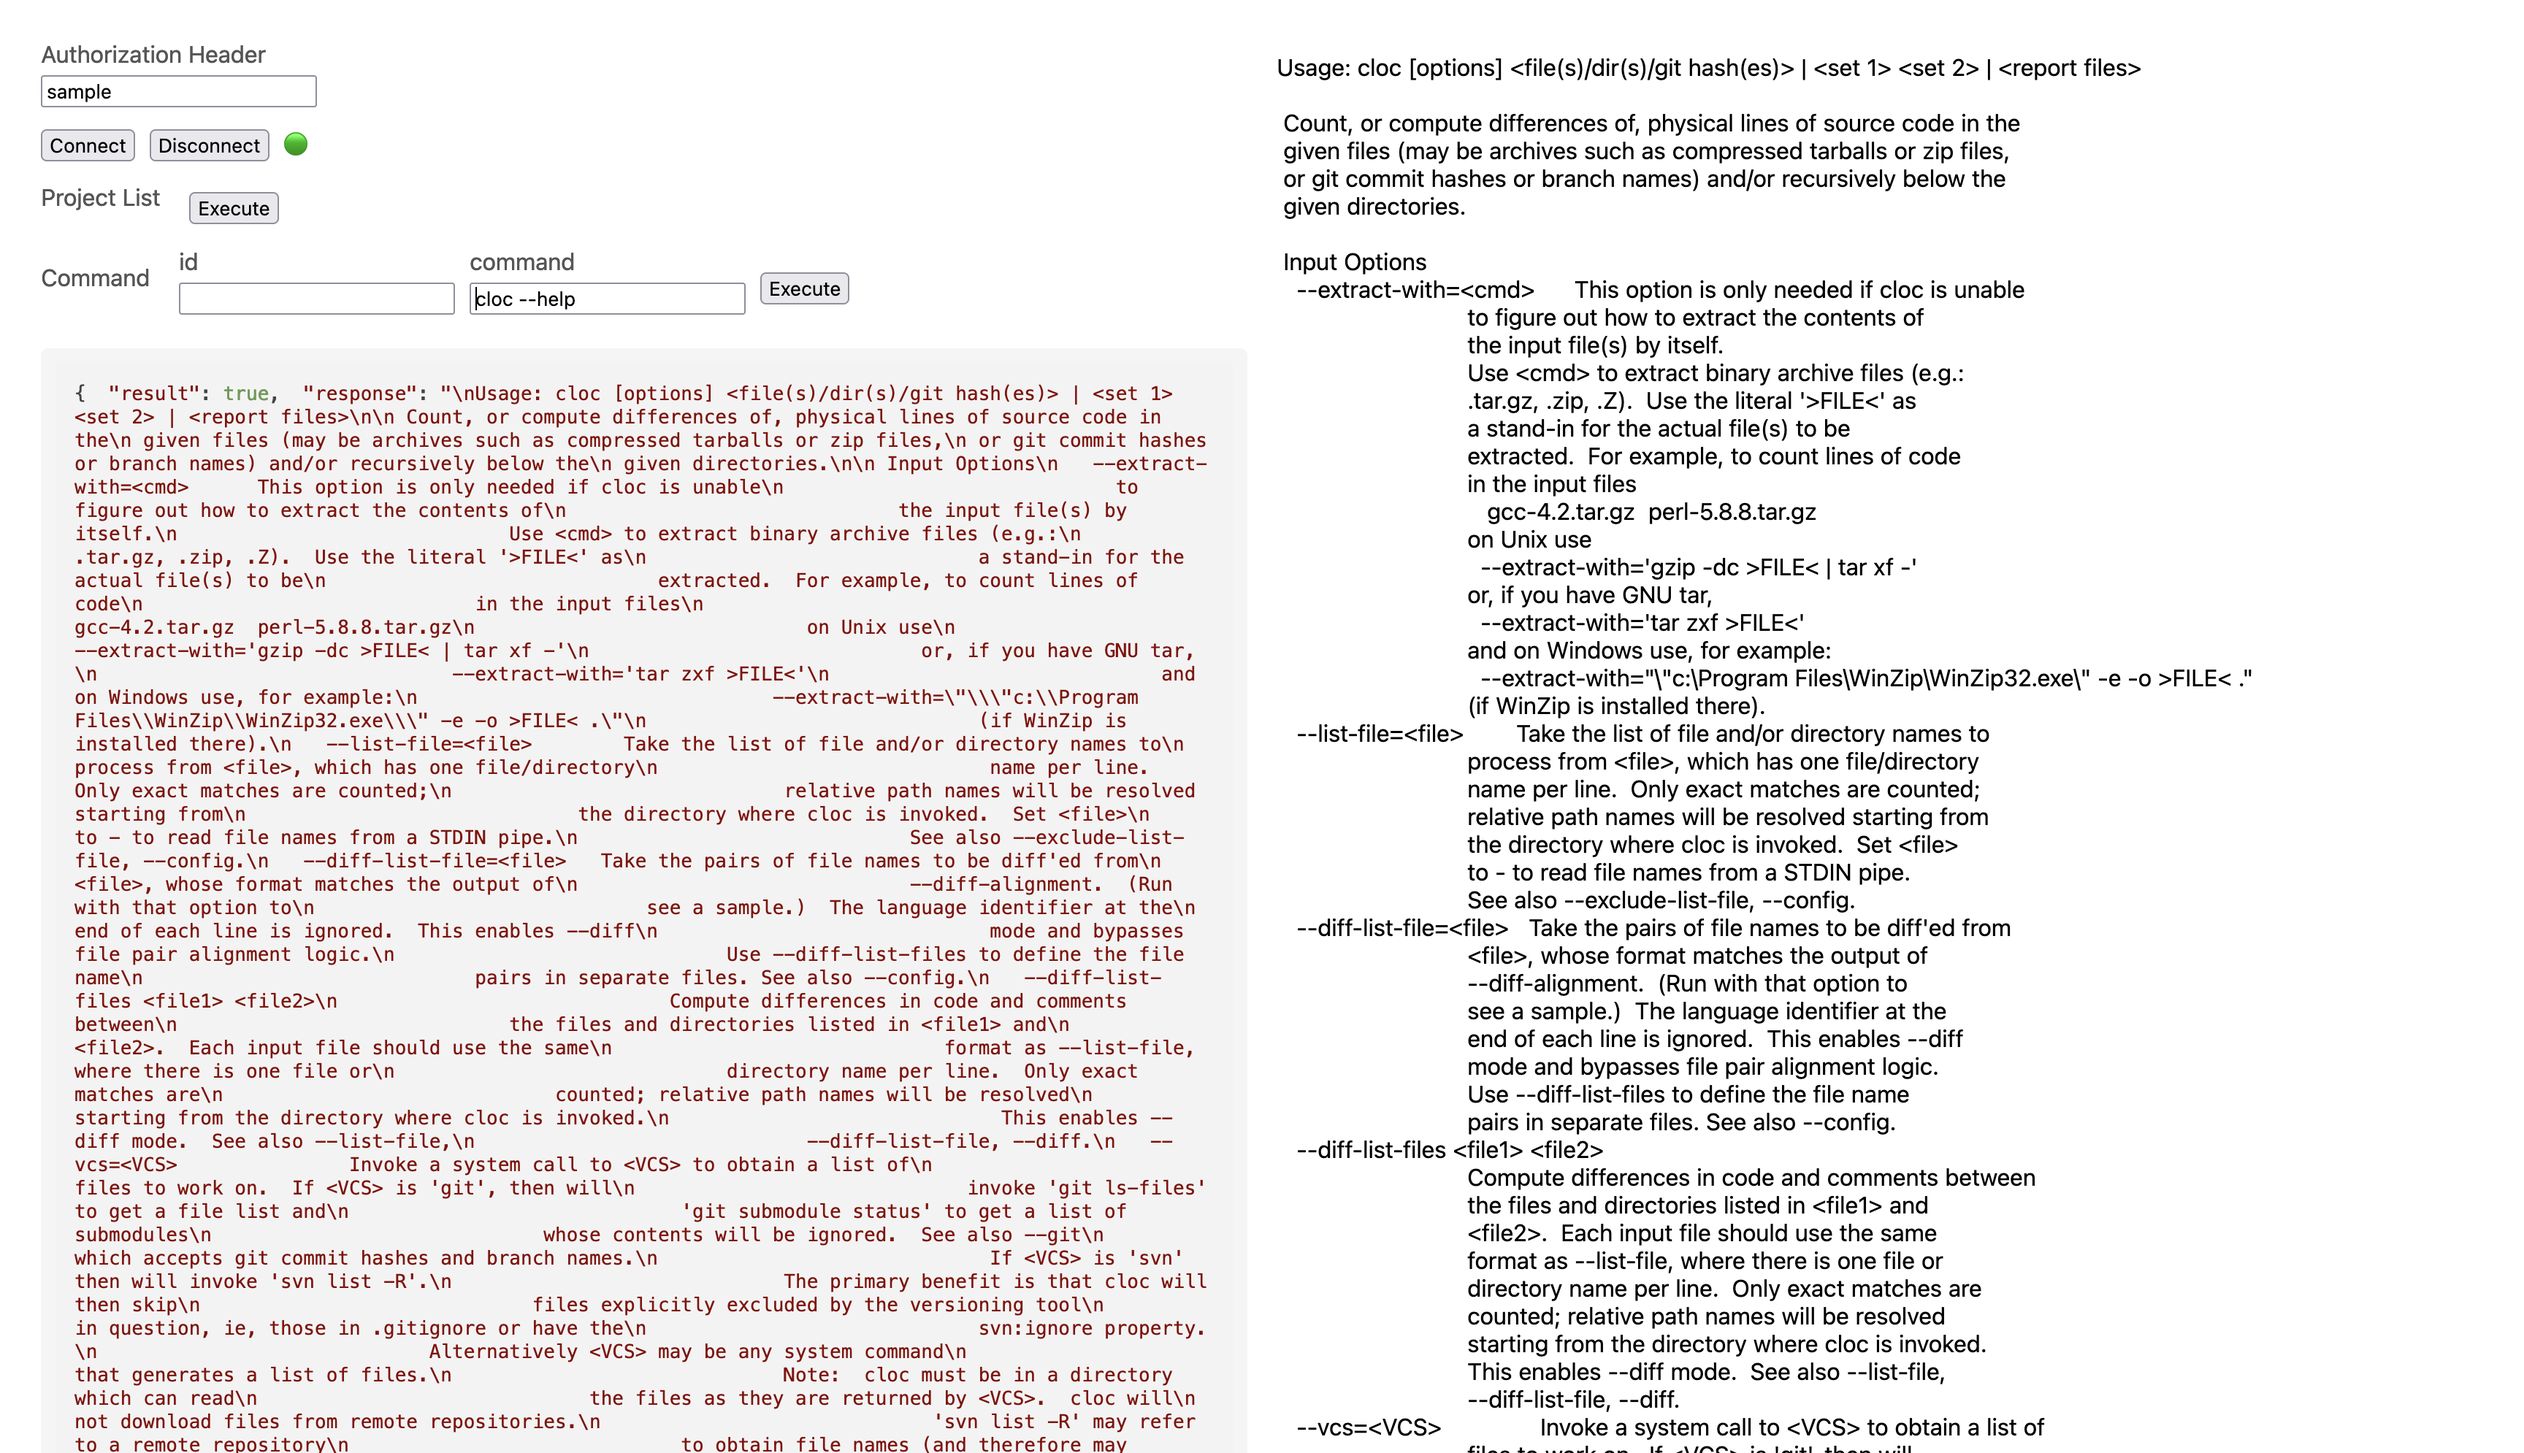
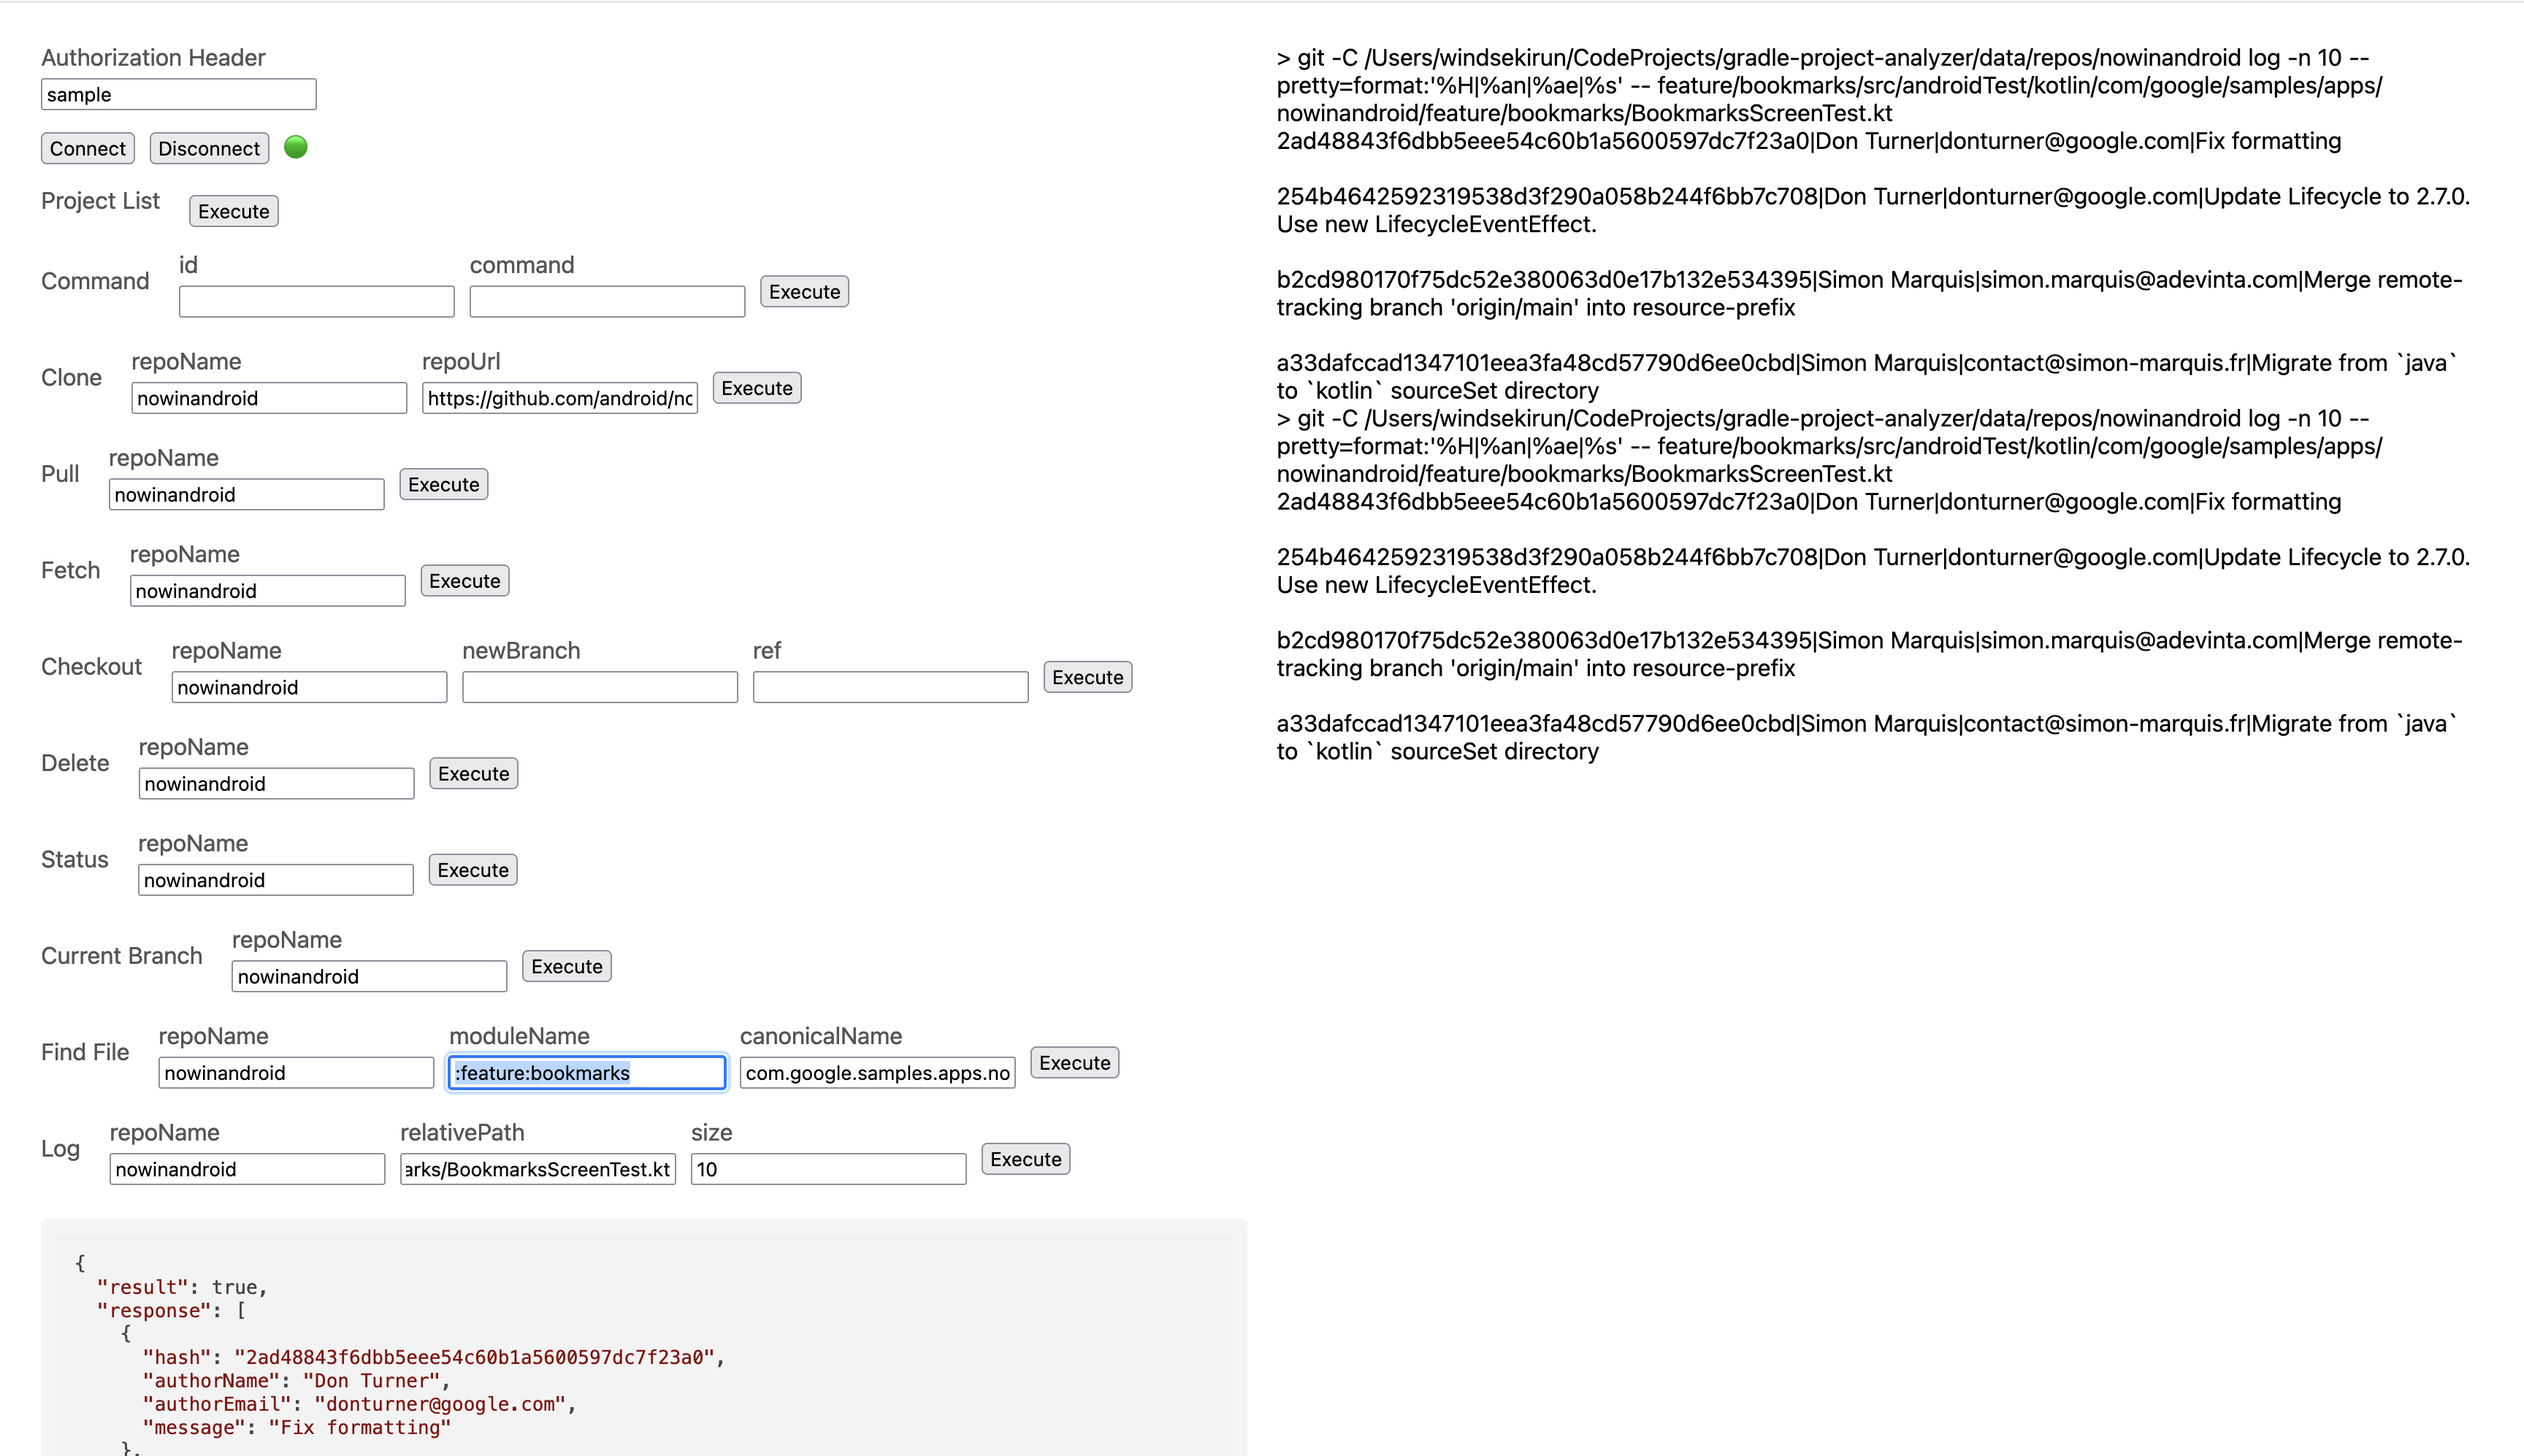
implement find relative path from canonicalName

diff --git a/demo/demo.html b/demo/demo.html
@@ -6,10 +6,18 @@
     <title>gradle-project-analyzer demo page</title>
     <script src="https://unpkg.com/vue@3/dist/vue.global.js"></script>
     <script src="https://cdn.jsdelivr.net/npm/axios/dist/axios.min.js"></script>
-    <script src="https://cdn.socket.io/4.0.1/socket.io.min.js"></script>
-    <link rel="stylesheet" href="https://cdnjs.cloudflare.com/ajax/libs/highlight.js/11.5.0/styles/default.min.css" />
-    <script src="https://cdnjs.cloudflare.com/ajax/libs/highlight.js/11.5.0/highlight.min.js"></script>
+    <script src="https://cdn.socket.io/4.7.5/socket.io.min.js"></script>
+    <link rel="stylesheet" href="https://cdnjs.cloudflare.com/ajax/libs/highlight.js/11.9.0/styles/default.min.css" />
+    <script src="https://cdnjs.cloudflare.com/ajax/libs/highlight.js/11.9.0/highlight.min.js"></script>
     <link rel="stylesheet" href="demo.css" />
+    <script type="module">
+      import * as prettier from 'https://unpkg.com/prettier@3.3.2/standalone.mjs';
+      import prettierPluginBabel from 'https://unpkg.com/prettier@3.3.2/plugins/babel.mjs';
+      import prettierPluginEstree from 'https://unpkg.com/prettier@3.3.2/plugins/estree.mjs';
+
+      window.prettier = prettier;
+      window.prettierPlugins = [prettierPluginBabel, prettierPluginEstree];
+    </script>
   </head>
   <body>
     <div id="app" class="container">
@@ -36,7 +44,7 @@
           <button @click="executeFunction(functionData)">Execute</button>
         </div>
         <div class="row">
-          <pre><code ref="output" class="hljs">{{ output.value }}</code></pre>
+          <pre><code class="hljs" v-html="highlightedOutput"></code></pre>
         </div>
       </div>
       <div class="right"></div>
@@ -125,7 +133,7 @@
               paramValues: {
                 repoName: defaultRepoName,
                 newBranch: '',
-                ref: ''
+                ref: '',
               },
             },
             {
@@ -153,6 +161,29 @@
               params: ['repoName'],
               paramValues: {
                 repoName: defaultRepoName,
+              },
+            },
+            {
+              name: 'Find File',
+              apiPath: '/api/analyze/find/file',
+              method: 'POST',
+              params: ['repoName', 'moduleName', 'canonicalName'],
+              paramValues: {
+                repoName: defaultRepoName,
+                moduleName: ':feature:bookmarks',
+                canonicalName: 'com.google.samples.apps.nowinandroid.feature.bookmarks.BookmarksScreenTest',
+              },
+            },
+            {
+              name: 'Log',
+              apiPath: '/api/git/log',
+              method: 'POST',
+              params: ['repoName', 'relativePath', 'size'],
+              paramValues: {
+                repoName: defaultRepoName,
+                relativePath:
+                  'feature/bookmarks/src/androidTest/kotlin/com/google/samples/apps/nowinandroid/feature/bookmarks/BookmarksScreenTest.kt',
+                size: '10',
               },
             },
           ]);
@@ -209,11 +240,22 @@
             updateOutput();
           };
 
-          const updateOutput = () => {
+          const updateOutput = async () => {
             const outputElement = document.querySelector('code.hljs');
-            outputElement.innerText = output.value;
-            hljs.highlightElement(outputElement);
+            const formatted = await window.prettier.format(output.value, {
+              parser: 'json',
+              plugins: window.prettierPlugins,
+            });
+            output.value = formatted;
           };
+
+          const highlightedOutput = computed(() => {
+            if (output.value != '') {
+              const highlighted = hljs.highlightAuto(output.value).value;
+              return highlighted;
+            }
+            return '';
+          });
 
           onMounted(() => {
             socket.on('connect', () => {
@@ -249,6 +291,7 @@
           return {
             authorizationHeader,
             output,
+            highlightedOutput,
             socketConnected,
             functionsList,
             connectionStatus,

diff --git a/src/git/git.service.ts b/src/git/git.service.ts
@@ -21,19 +21,22 @@ export class GitService {
   }
 
   async pull(repoName: string) {
-    return await this.commandService.runCommand('delete', `git -C ${getRepoPath(repoName)} pull`);
+    return await this.commandService.runCommand('pull', `git -C ${getRepoPath(repoName)} pull`);
   }
 
   async fetch(repoName: string) {
-    return await this.commandService.runCommand('delete', `git -C ${getRepoPath(repoName)} fetch`);
+    return await this.commandService.runCommand('fetch', `git -C ${getRepoPath(repoName)} fetch`);
   }
 
   async status(repoName: string) {
-    return await this.commandService.runCommand('delete', `git -C ${getRepoPath(repoName)} status`);
+    return await this.commandService.runCommand('status', `git -C ${getRepoPath(repoName)} status`);
   }
 
-  async checkout(repoName: string, newBranch: string, ref: string) {
-    return await this.commandService.runCommand('delete', `git -C ${getRepoPath(repoName)} checkout -b ${newBranch} ${ref}`);
+  async checkout(repoName: string, newBranch: string, ref?: string) {
+    const command = ref
+      ? `git -C ${getRepoPath(repoName)} checkout -b ${newBranch} ${ref}`
+      : `git -C ${getRepoPath(repoName)} checkout ${newBranch}`;
+    return await this.commandService.runCommand('checkout', command);
   }
 
   async clone(repoName: string, repoUrl: string): Promise<string> {
@@ -61,8 +64,22 @@ export class GitService {
 
   async getCurrentBranch(repoName: string) {
     return await this.commandService.runCommand(
-      'delete',
+      'current-branch',
       `git -C ${getRepoPath(repoName)} rev-parse --abbrev-ref HEAD`,
     );
+  }
+
+  async log(repoName: string, relativePath: string, size: number): Promise<any[]> {
+    const command = `git -C ${getRepoPath(repoName)} log -n ${size} --pretty=format:'%H|%an|%ae|%s' -- ${relativePath}`;
+
+    try {
+      const stdout = await this.commandService.runCommand('logs', command);
+      return stdout.split('\n').map((log) => {
+        const [hash, authorName, authorEmail, message] = log.split('|');
+        return { hash, authorName, authorEmail, message };
+      })
+    } catch (error) {
+      throw new Error(`Error executing git command: ${error.message}`);
+    }
   }
 }

diff --git a/src/git/git.controller.ts b/src/git/git.controller.ts
@@ -1,4 +1,4 @@
-import { Body, Controller, Post, UseGuards } from '@nestjs/common';
+import { Body, Controller, DefaultValuePipe, ParseIntPipe, Post, UseGuards } from '@nestjs/common';
 import { AuthGuard } from '../auth/auth.guard';
 import { GitService } from './git.service';
 import { exec } from '../utils/exec';
@@ -39,7 +39,17 @@ export class GitController {
   }
 
   @Post('checkout')
-  async checkout(@Body('repoName') repoName: string, @Body('newBranch') newBranch: string, @Body('ref') ref: string) {
+  async checkout(@Body('repoName') repoName: string, @Body('newBranch') newBranch: string, @Body('ref') ref?: string) {
     return exec(async () => await this.gitService.checkout(repoName, newBranch, ref));
+  }
+
+  @Post('log')
+  async log(
+    @Body('repoName') repoName: string,
+    @Body('relativePath') relativePath: string,
+    @Body('size', new DefaultValuePipe(10), new ParseIntPipe())
+    size?: number,
+  ) {
+    return exec(async () => await this.gitService.log(repoName, relativePath, size));
   }
 }

diff --git a/src/analyze/analyze.service.ts b/src/analyze/analyze.service.ts
@@ -1,0 +1,30 @@
+import { Injectable } from '@nestjs/common';
+import { getRepoPath } from '../utils/path';
+import { join, relative } from 'path';
+import * as glob from 'glob';
+
+@Injectable()
+export class AnalyzeService {
+
+  findFileInModule(repoName: string, moduleName: string, canonicalName: string): string[] {
+    const repoDir = getRepoPath(repoName);
+    const moduleDir = join(getRepoPath(repoName), moduleName.replace(/:/g, '/'));
+    const packagePath = canonicalName.replace(/\./g, '/').replace(/\/[^\/]*$/, '');
+    const className = canonicalName.split('.').pop();
+    const extensions = ['kt', 'java'];
+
+    const pattern = join(moduleDir, '**', packagePath, `${className}.*`);
+    const files = glob.sync(pattern);
+
+    const result = [];
+    for (const file of files) {
+      for (const ext of extensions) {
+        if (file.endsWith(`.${ext}`)) {
+          result.push(relative(repoDir, file));
+        }
+      }
+    }
+
+    return result;
+  }
+}

diff --git a/src/analyze/analyze.controller.ts b/src/analyze/analyze.controller.ts
@@ -1,0 +1,18 @@
+import { Body, Controller, Post, UseGuards } from '@nestjs/common';
+import { AnalyzeService } from './analyze.service';
+import { AuthGuard } from '../auth/auth.guard';
+
+@Controller('analyze')
+@UseGuards(AuthGuard)
+export class AnalyzeController {
+  constructor(private analyzeService: AnalyzeService) {}
+
+  @Post('find/file')
+  async findFileInProject(
+    @Body('repoName') repoName: string,
+    @Body('moduleName') moduleName: string,
+    @Body('canonicalName') canonicalName: string,
+  ) {
+    return this.analyzeService.findFileInModule(repoName, moduleName, canonicalName);
+  }
+}

diff --git a/src/app.module.ts b/src/app.module.ts
@@ -6,6 +6,7 @@ import { PrismaModule } from './prisma/prisma.module';
 import { GitModule } from './git/git.module';
 import { ServeStaticModule } from '@nestjs/serve-static';
 import { join } from 'path';
+import { AnalyzeModule } from './analyze/analyze.module';
 
 @Module({
   imports: [
@@ -18,6 +19,7 @@ import { join } from 'path';
       rootPath: join(__dirname, '..', '..', 'data/', 'repos'),
       serveRoot: '/repos',
     }),
+    AnalyzeModule,
   ],
   controllers: [],
   providers: [],

diff --git a/src/analyze/analyze.module.ts b/src/analyze/analyze.module.ts
@@ -1,0 +1,12 @@
+import { Module } from '@nestjs/common';
+import { AnalyzeService } from './analyze.service';
+import { AnalyzeController } from './analyze.controller';
+import { GitModule } from 'src/git/git.module';
+import { CommandModule } from 'src/command/command.module';
+
+@Module({
+  imports: [GitModule, CommandModule],
+  providers: [AnalyzeService],
+  controllers: [AnalyzeController],
+})
+export class AnalyzeModule {}

diff --git a/README.md b/README.md
@@ -5,14 +5,18 @@
 REST APIs that providing analysis functions of Gradle-based projects
 
 ## Features
-* ...
+
+- Clone/Checkout/Pull/Fetch/Log git projects
+- Find relative path from moduleName (ex, :feature:bookmarks) / canonicalName (ex, com.google.samples.apps.nowinandroid.feature.bookmarks.BookmarksScreenTest)
 
 ## Demo
+
 ![](docs/demo.png)
 
 ## Usage
 
 ### Production
+
 1. `docker-compose up -d`
 2. Access 'http://localhost:3000'
 
@@ -22,6 +26,6 @@ REST APIs that providing analysis functions of Gradle-based projects
 2. `pnpm start`
 3. open 'demo/demo.html' in browser for demo page
 
-
 ## License
+
 MIT License
